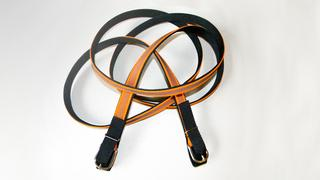
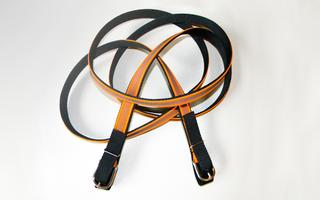
Update 2015-03-24

Changed region(s): [[0.1875, 0.0556, 0.75, 0.9444], [0.2812, 0.8056, 0.3438, 0.9722], [0.4062, 0.0278, 0.5, 0.0556]]

diff --git a/_layouts/product.html b/_layouts/product.html
@@ -6,7 +6,7 @@ css:
 
 <div class="media">
   <div class="media-body">
-    {{ content}}
+    {{ content }}
   </div>
   <div class="media-right media-top">
     <a data-toggle="modal" data-target=".bs-modal-sm" >
@@ -27,10 +27,10 @@ css:
 </div>
 
 
-{%if page.pricing %}
+{% if page.pricing %}
 <table id="pricelist" class='table'>
 <tr><th>Varianta</th><th>Cena</th></tr>
-{% for p in page.pricing %}<tr><td>{{ p.variant }}</td><td>{{ p.price}}&nbsp;Kč</td></tr>
+{% for p in page.pricing %}<tr><td>{{ p.variant }}</td><td>{{ p.price }}&nbsp;Kč</td></tr>
 {% endfor %}
 </table>
-{%endif%}
+{% endif %}

diff --git a/konici/oteze-a-pomocne-oteze/index.html b/konici/oteze-a-pomocne-oteze/index.html
@@ -14,6 +14,9 @@ products:
     title: Otěže protiskluzové
     slug : oteze-protiskluzove
   - id   : 8003
+    title: Jednokarabinové otěže
+    slug : jednokarabinove-oteze
+  - id   : 8004
     title: Průvlečky
     slug : pruvlecky
 ---

diff --git a/konici/oteze-a-pomocne-oteze/jednokarabinove-oteze.md b/konici/oteze-a-pomocne-oteze/jednokarabinove-oteze.md
@@ -1,0 +1,20 @@
+---
+layout: product
+title: Jednokarabinové otěže
+cat_slug : konici
+group_slug: oteze-a-pomocne-oteze
+slug: jednokarabinove-oteze
+pricing:
+  - variant : Jednokarabinové otěže ploché
+    price   : 300
+  - variant : Jednokarabinové otěže lanové bez opletu
+    price   : 350
+  - variant : Jednokarabinové otěže lanové s opletem
+    price   : 450
+---
+
+Jednokarabinové otěže jsou vhodné pro ježdění koníka na ohlávce. Velice často je využívají příznivci přirozené komunikace. 
+
+Otěže vám mohu ušít ploché z nylonových popruhů a nebo vám je udělat z lana a svár u karabiny oplést. 
+V obou variantách je nepřeberné množství barev a provedení. Oplet otěží je možný v jakékoliv barvě.
+

diff --git a/konici/beranci-obaly-a-potahy/obal-na-anglicke-sedlo.md b/konici/beranci-obaly-a-potahy/obal-na-anglicke-sedlo.md
@@ -9,7 +9,9 @@ pricing:
     price   : 300
 ---
 
-Obal na sedlo je vyráběn z látky, v okrajích je všitá guma, aby obal kopíroval tvar sedla a nepadal když se na sedlo navleče.
+Obal na sedlo je vyráběn z látky, v okrajích je všitá guma, 
+aby obal kopíroval tvar sedla a nepadal když se na sedlo navleče.
+
 U objednávky prosím upřesněte jaké sedlo máte a jeho velikost.
 Možnost objednání různých barev.
 

diff --git a/konici/beranci-obaly-a-potahy/obal-na-drezurni-sedlo.md b/konici/beranci-obaly-a-potahy/obal-na-drezurni-sedlo.md
@@ -9,7 +9,9 @@ pricing:
     price   : 390
 ---
 
-Obal na sedlo je vyráběn z látky, v okrajích je všitá guma, aby obal kopíroval tvar sedla a nepadal když se na sedlo navleče.
+Obal na sedlo je vyráběn z látky, v okrajích je všitá guma, 
+aby obal kopíroval tvar sedla a nepadal když se na sedlo navleče.
+
 U objednávky prosím upřesněte jaké sedlo máte a jeho velikost.
 Možnost objednání různých barev.
 

diff --git a/konici/beranci-obaly-a-potahy/obal-na-westernove-sedlo.md b/konici/beranci-obaly-a-potahy/obal-na-westernove-sedlo.md
@@ -9,7 +9,9 @@ pricing:
     price   : 450
 ---
 
-Obal na sedlo je vyráběn z látky, v okrajích je všitá guma, aby obal kopíroval tvar sedla a nepadal když se na sedlo navleče.
+Obal na sedlo je vyráběn z látky, 
+v okrajích je všitá guma, aby obal kopíroval tvar sedla a nepadal když se na sedlo navleče.
+
 U objednávky prosím upřesněte jaké sedlo máte a jeho velikost.
 Možnost objednání různých barev.
 

diff --git a/konici/beranci-obaly-a-potahy/obal-na-trmeny.md b/konici/beranci-obaly-a-potahy/obal-na-trmeny.md
@@ -9,7 +9,9 @@ pricing:
     price   : 150
 ---
 
-Obal je vyráběn z látky, v okrajích je všitá guma, aby obal kopíroval tvar třmenu a nepadal, když se na třmen navleče.
+Obal je vyráběn z látky, v okrajích je všitá guma, 
+aby obal kopíroval tvar třmenu a nepadal, když se na třmen navleče.
+
 U objednávky prosím upřesněte jaké třmeny máte a jejich velikost.
 Možnost objednání různých barev.
 
